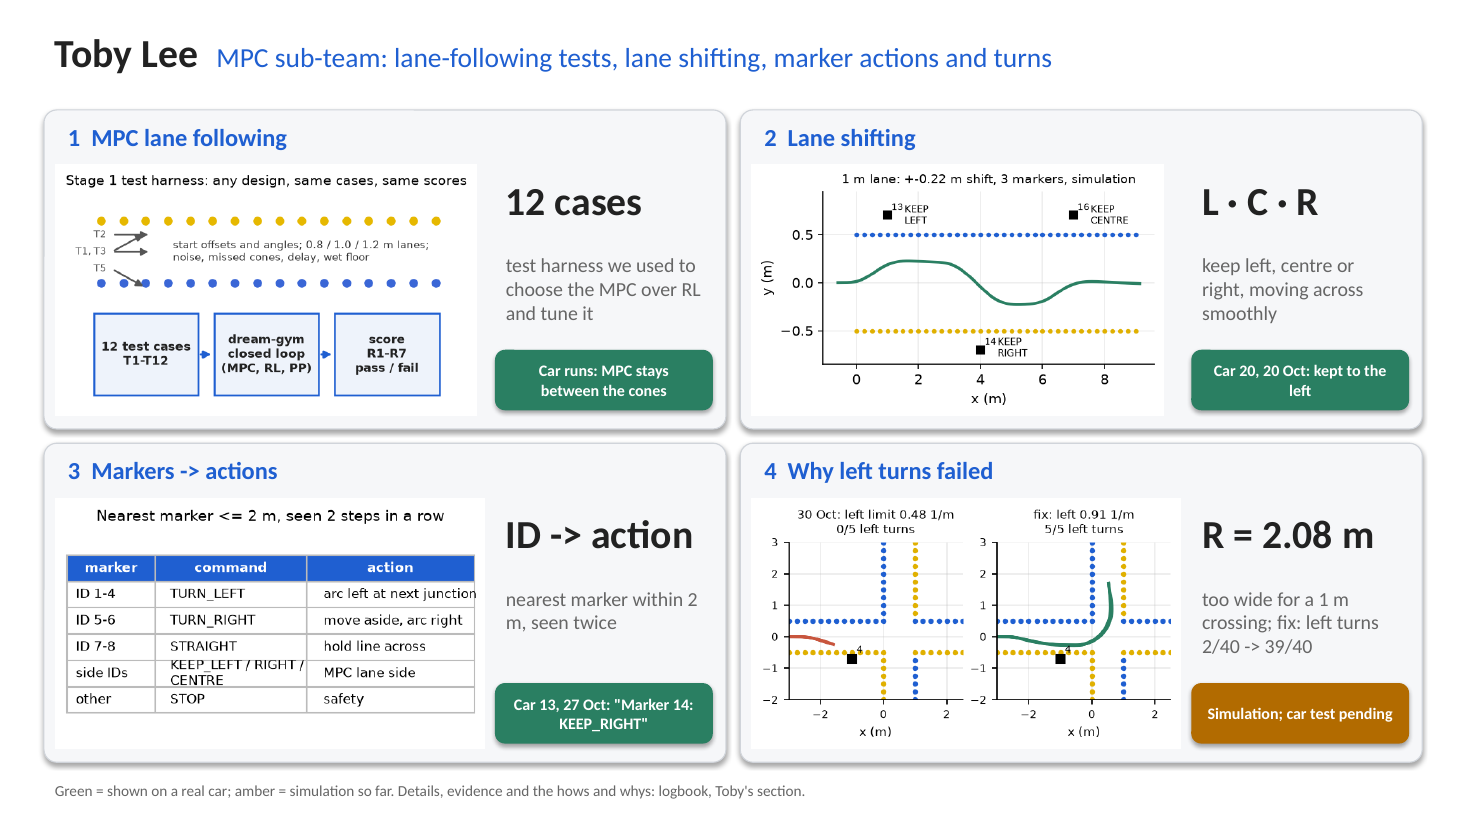
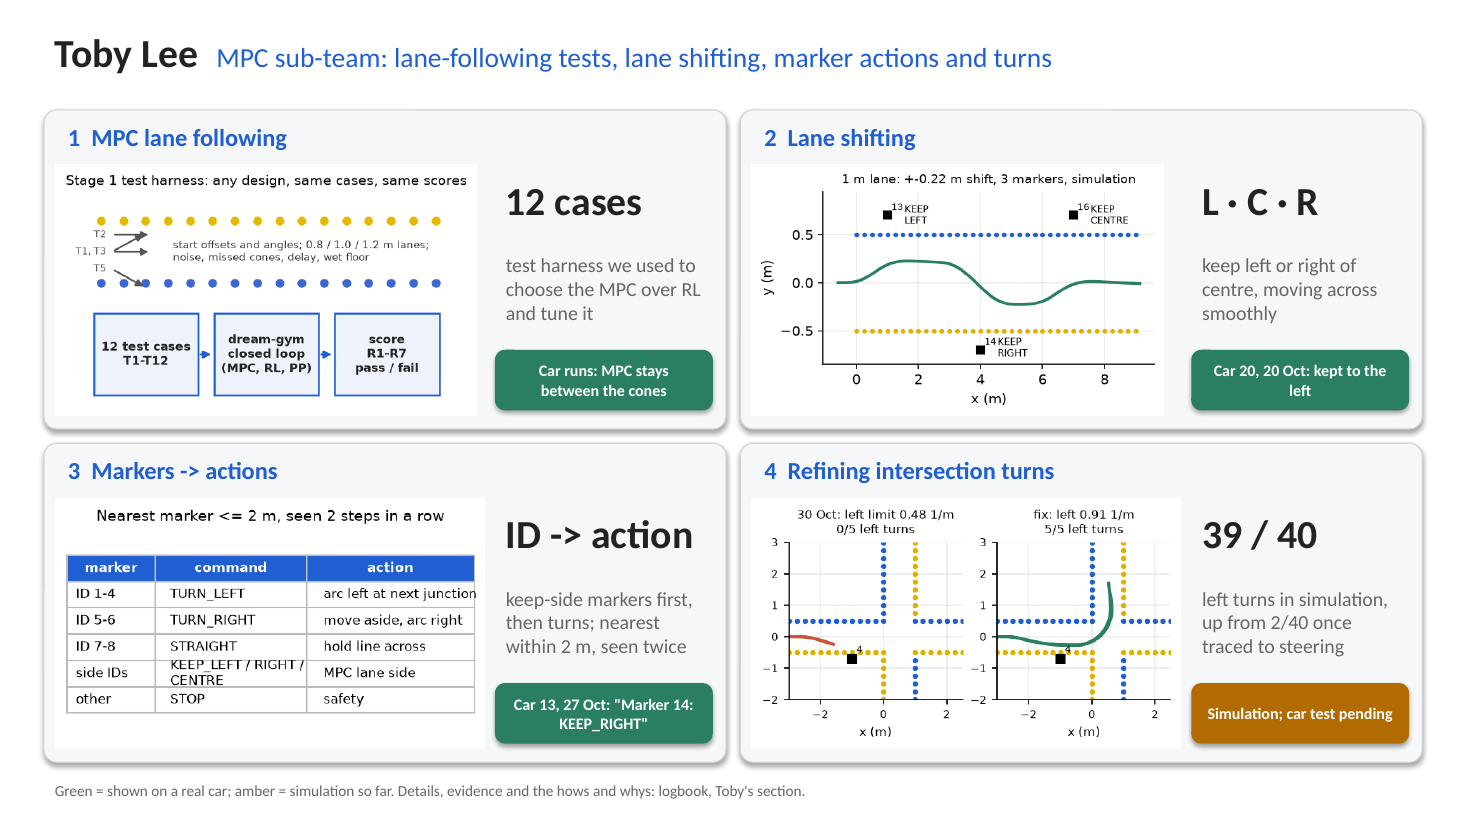
Toby's slide: cards and speaker notes follow the spoken script

diff --git a/docs/logbook/toby/make_slide.py b/docs/logbook/toby/make_slide.py
@@ -19,33 +19,19 @@ CARDS = [
     ("1  MPC lane following", "slide_mpc.png", "12 cases",
      "test harness we used to choose the MPC over RL and tune it", ("Car runs: MPC stays between the cones", GREEN)),
     ("2  Lane shifting", "slide_lane_change.png", "L · C · R",
-     "keep left, centre or right, moving across smoothly", ("Car 20, 20 Oct: kept to the left", GREEN)),
+     "keep left or right of centre, moving across smoothly", ("Car 20, 20 Oct: kept to the left", GREEN)),
     ("3  Markers -> actions", "slide_aruco.png", "ID -> action",
-     "nearest marker within 2 m, seen twice", ("Car 13, 27 Oct: \"Marker 14: KEEP_RIGHT\"", GREEN)),
-    ("4  Why left turns failed", "slide_left_turn.png", "R = 2.08 m",
-     "too wide for a 1 m crossing; fix: left turns 2/40 -> 39/40", ("Simulation; car test pending", AMBER)),
+     "keep-side markers first, then turns; nearest within 2 m, seen twice", ("Car 13, 27 Oct: \"Marker 14: KEEP_RIGHT\"", GREEN)),
+    ("4  Refining intersection turns", "slide_left_turn.png", "39 / 40",
+     "left turns in simulation, up from 2/40 once traced to steering", ("Simulation; car test pending", AMBER)),
 ]
 """(title, figure, key number, one line under it, (status badge, colour)). The rest is said, not written: see
 SCRIPT."""
-SCRIPT = """About 100 seconds. Point at each card as you reach it.
-[1] I'm Toby, in the MPC sub-team. Peiyu designed our MPC; my part was making it testable. I wrote the Stage 1
-test cases and the harness that runs them: twelve cases with the car starting off-centre or at an angle, lanes 0.8 to
-1.2 metres wide, missed cones, detector noise, extra delay and a wet floor. The harness drives any design, MPC, RL or
-pure pursuit, closed loop in dream-gym and scores it against requirements R1 to R7. That is what we used to choose the
-MPC over RL and then tune it. Later I added the real car's delay, cone noise and steering limits, measured from
-recorded drives, so settings tuned in simulation carried over to the car.
-[2] Next, lane shifting. Instead of the lane centre, the MPC can follow a line beside it, so the car keeps left, centre
-or right, and it moves across gradually, at most 0.3 metres sideways per metre driven. On car 20 on 20 October,
-changing only that setting to left kept the car on the left. In the lab's narrow lanes the shift was hard to see, so I
-worked out how much room there really is and retuned it: 40 out of 40 in simulation.
-[3] Then I connected the ArUco markers to the policy. Only the nearest marker within two metres counts, and only once
-it has been seen in two steps in a row. Its ID means keep a side, turn left, turn right or go straight. A turn is its
-own manoeuvre: move to the outside of the lane, drive a planned arc, then hand back to lane following. On car 13 the
-policy acted on a keep-right marker.
-[4] Last, four car sessions of testing. Left turns kept failing on car 20 while right turns worked. I reproduced the
-same pattern in simulation and traced it to the steering: car 20 can only turn left on a 2.08 metre radius, and that
-doesn't fit a one-metre crossing. With more steering range, left turns go from 2 out of 40 to 39 out of 40 in
-simulation. A full turn on a car is still to be shown."""
+SCRIPT = """About 2-3 minutes. [pause] = breathe or move to the next card.
+[1] Hi, I'm Toby, and I'm in the MPC sub-team. [pause] The first thing I did was work with Vincent and Kevin to set up our first lane-following MPC. Vincent designed the controller itself, and my part in Stage 1 was the testing, so I built the test cases and a test harness to run them. [pause] I made twelve lane test cases. The car starts off-centre or at an angle, the lanes are different widths, and some cases add problems like missing cones, noise, extra delay or a wet floor. [pause] The harness can run any design, whether that's the MPC, RL or pure pursuit, and it scores each run against our requirements. We used it to choose the MPC over RL, and then to tune it.
+[2] The second main task I worked on was lane shifting. [pause] I wrote the part of the policy that lets the car keep to the left or the right side of the lane, instead of always driving down the middle, and it moves across gradually so the shift is smooth. [pause] On car 20, we changed just that one setting to "left", and the car stayed on the left. [pause] In the lab's narrower lanes the shift was hard to see, so I retuned how close it goes to the edge, and after that it passed all 40 simulation runs.
+[3] Next, I built the part that turns ArUco markers into actions for the policy. [pause] The first thing I tested was combining it with lane shifting, so a marker could tell the car to keep left or right. On car 13, the policy acted on a keep-right marker. [pause] I then expanded the marker actions to link up with the intersection turning that Kevin and I worked on, so a marker can also mean turn left, turn right or go straight. [pause] To avoid false triggers, the car only reacts to the nearest marker within two metres, and only after it has seen it twice in a row.
+[4] My last task was refining the intersection turns with Kevin. [pause] When we tested the first version on the robot, it wasn't very consistent. Left turns kept failing, while right turns worked. [pause] So I built a simulation suite that runs different turning scenarios with different parameters, to find out when the car can make a turn and when it can't. [pause] It showed the same pattern as the real car, and it traced the problem to the steering. Car 20 can't turn left any tighter than about a two-metre radius, and that's too wide for a one-metre crossing. [pause] With more steering range, left turns went from 2 out of 40 to 39 out of 40 in simulation, but a full turn on the real car is still to be shown."""
 
 
 def text_box(slide, x, y, w, h, paragraphs):
